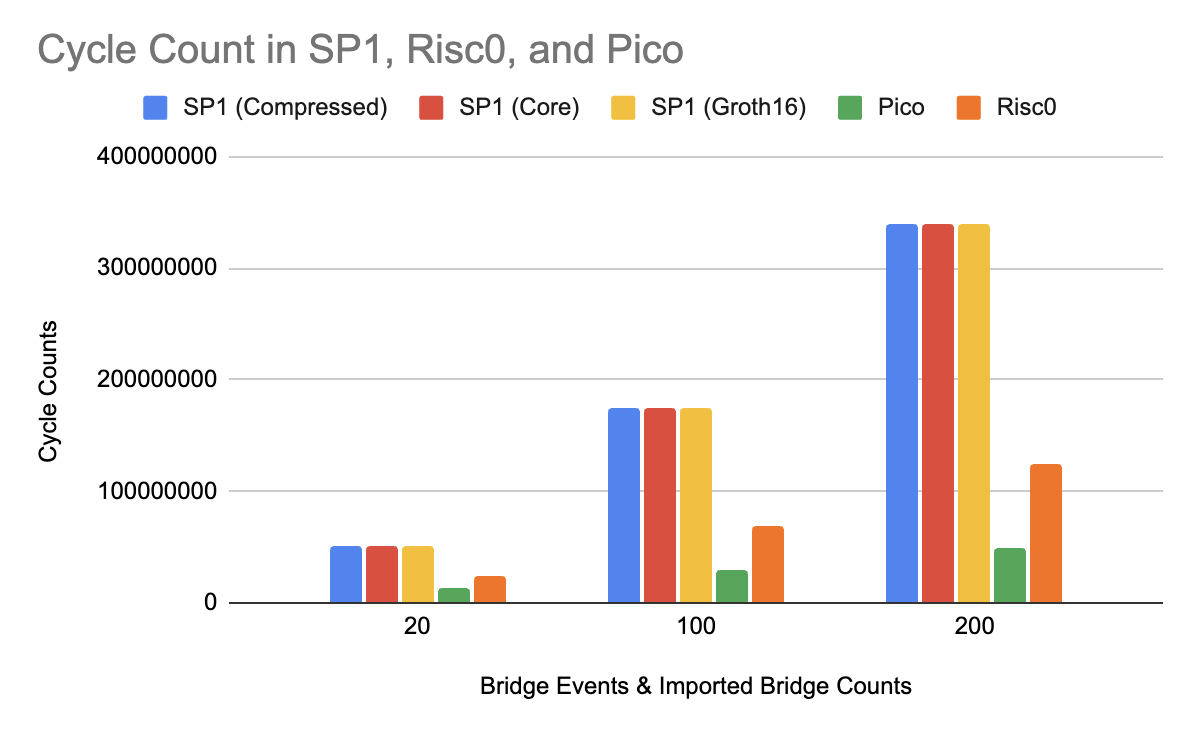
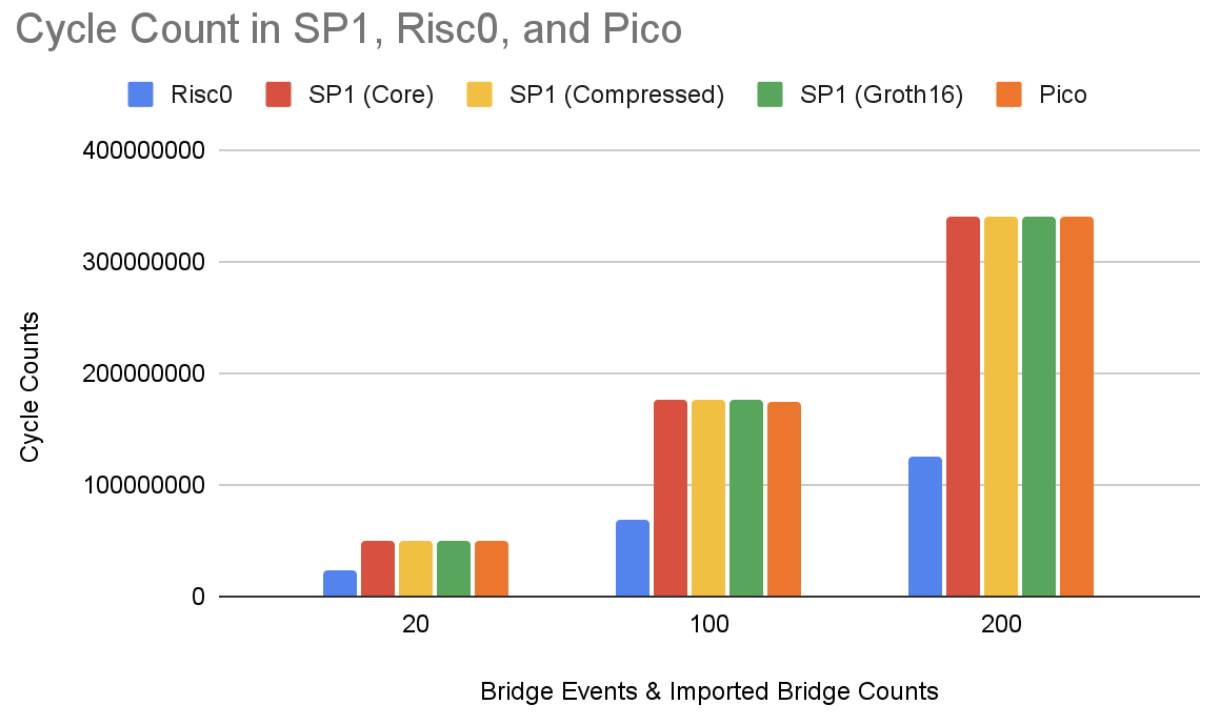
fix: updated the pico benchmark to the correct number

diff --git a/pessimistic-proof-bench/crates/pp-sp1/pp-sp1-host/src/bin/ppgen.rs b/pessimistic-proof-bench/crates/pp-sp1/pp-sp1-host/src/bin/ppgen.rs
@@ -1,16 +1,17 @@
 use std::{path::PathBuf, time::Instant};
 
-use agglayer_primitives::Address;
-use agglayer_types::{Certificate, U256};
 use clap::Parser;
-use pessimistic_proof::bridge_exit::{NetworkId, TokenInfo};
-use pessimistic_proof::PessimisticProofOutput;
-use pessimistic_proof_test_suite::sample_data::{self as data};
 use pp_sp1_host::runner::Runner;
 use serde::{Deserialize, Serialize};
 use sp1_sdk::HashableKey;
 use tracing::{info, warn};
 use uuid::Uuid;
+
+use agglayer_types::{Certificate, U256};
+use pessimistic_proof::bridge_exit::{NetworkId, TokenInfo};
+use pessimistic_proof::PessimisticProofOutput;
+use pessimistic_proof_core::{generate_pessimistic_proof, NetworkState};
+use pessimistic_proof_test_suite::sample_data::{self as data};
 
 /// The arguments for the pp generator.
 #[derive(Parser, Debug)]
@@ -56,8 +57,8 @@ pub fn main() {
     let args = PPGenArgs::parse();
 
     let mut state = data::sample_state_00();
-
     let old_state = state.state_b.clone();
+    let old_network_state = NetworkState::from(old_state.clone());
 
     let bridge_exits = get_events(args.n_exits, args.sample_path.clone());
     let imported_bridge_exits = get_events(args.n_imported_exits, args.sample_path);
@@ -76,10 +77,10 @@ pub fn main() {
         .unwrap();
 
     // Validate inputs by running generate_pessimistic_proof first
-    let mut proof_output: PessimisticProofOutput = None;
+    // let mut proof_output: PessimisticProofOutput = None;
     match generate_pessimistic_proof(old_network_state.clone(), &multi_batch_header) {
         Ok(output) => {
-            proof_output = output;
+            // proof_output = output;
             info!("Input validation successful, proceeding with proof generation");
         }
         Err(e) => {
@@ -136,50 +137,50 @@ pub fn main() {
     // }
 }
 
-#[derive(Debug, Clone, Serialize, Deserialize)]
-#[serde(rename_all = "kebab-case")]
-pub struct VerifierInputs {
-    /// The previous local exit root.
-    pub prev_local_exit_root: String,
-    /// The previous pessimistic root.
-    pub prev_pessimistic_root: String,
-    /// The l1 info root against which we prove the inclusion of the
-    /// imported bridge exits.
-    pub l1_info_root: String,
-    /// The origin network of the pessimistic proof.
-    pub origin_network: NetworkId,
-    /// The consensus hash.
-    pub consensus_hash: String,
-    /// The new local exit root.
-    pub new_local_exit_root: String,
-    /// The new pessimistic root which commits to the balance and nullifier
-    /// tree.
-    pub new_pessimistic_root: String,
-}
+// #[derive(Debug, Clone, Serialize, Deserialize)]
+// #[serde(rename_all = "kebab-case")]
+// pub struct VerifierInputs {
+//     /// The previous local exit root.
+//     pub prev_local_exit_root: String,
+//     /// The previous pessimistic root.
+//     pub prev_pessimistic_root: String,
+//     /// The l1 info root against which we prove the inclusion of the
+//     /// imported bridge exits.
+//     pub l1_info_root: String,
+//     /// The origin network of the pessimistic proof.
+//     pub origin_network: NetworkId,
+//     /// The consensus hash.
+//     pub consensus_hash: String,
+//     /// The new local exit root.
+//     pub new_local_exit_root: String,
+//     /// The new pessimistic root which commits to the balance and nullifier
+//     /// tree.
+//     pub new_pessimistic_root: String,
+// }
 
-impl From<PessimisticProofOutput> for VerifierInputs {
-    fn from(v: PessimisticProofOutput) -> Self {
-        Self {
-            prev_local_exit_root: format!("0x{}", hex::encode(v.prev_local_exit_root)),
-            prev_pessimistic_root: format!("0x{}", hex::encode(v.prev_pessimistic_root)),
-            l1_info_root: format!("0x{}", hex::encode(v.l1_info_root)),
-            origin_network: v.origin_network.into(),
-            consensus_hash: format!("0x{}", hex::encode(v.consensus_hash)),
-            new_local_exit_root: format!("0x{}", hex::encode(v.new_local_exit_root)),
-            new_pessimistic_root: format!("0x{}", hex::encode(v.new_pessimistic_root)),
-        }
-    }
-}
+// impl From<PessimisticProofOutput> for VerifierInputs {
+//     fn from(v: PessimisticProofOutput) -> Self {
+//         Self {
+//             prev_local_exit_root: format!("0x{}", hex::encode(v.prev_local_exit_root)),
+//             prev_pessimistic_root: format!("0x{}", hex::encode(v.prev_pessimistic_root)),
+//             l1_info_root: format!("0x{}", hex::encode(v.l1_info_root)),
+//             origin_network: v.origin_network.into(),
+//             consensus_hash: format!("0x{}", hex::encode(v.consensus_hash)),
+//             new_local_exit_root: format!("0x{}", hex::encode(v.new_local_exit_root)),
+//             new_pessimistic_root: format!("0x{}", hex::encode(v.new_pessimistic_root)),
+//         }
+//     }
+// }
 
-/// A fixture that can be used to test the verification of SP1 zkVM proofs
-/// inside Solidity.
-#[derive(Debug, Clone, Serialize, Deserialize)]
-#[serde(rename_all = "kebab-case")]
-struct PessimisticProofFixture {
-    certificate: Certificate,
-    pp_inputs: VerifierInputs,
-    signer: Address,
-    vkey: String,
-    public_values: String,
-    proof: String,
-}
+// /// A fixture that can be used to test the verification of SP1 zkVM proofs
+// /// inside Solidity.
+// #[derive(Debug, Clone, Serialize, Deserialize)]
+// #[serde(rename_all = "kebab-case")]
+// struct PessimisticProofFixture {
+//     certificate: Certificate,
+//     pp_inputs: VerifierInputs,
+//     signer: Address,
+//     vkey: String,
+//     public_values: String,
+//     proof: String,
+// }

diff --git a/pessimistic-proof-bench/crates/pp-sp1/pp-sp1-host/src/runner.rs b/pessimistic-proof-bench/crates/pp-sp1/pp-sp1-host/src/runner.rs
@@ -83,7 +83,7 @@ impl Runner {
         let stdin = Self::prepare_stdin(state, batch_header);
         let (pk, vk) = self.client.setup(PESSIMISTIC_PROOF_ELF);
 
-        let proof = self.client.prove(&pk, &stdin).groth16().run()?;
+        let proof = self.client.prove(&pk, &stdin).run()?;
         let output = Self::extract_output(proof.public_values.clone());
 
         Ok((proof, vk, output))

diff --git a/README.md b/README.md
@@ -79,34 +79,22 @@ Here's a spec of their characteristics that we utilized in this benchmark:
 | Nexus (std❌)     | -                 | -                 | -                 |
 
 ### 10 Bridge Exits & 10 Imported Bridge Exits
-|               | SP1 (Compressed) | SP1 (Core) | SP1 (Groth16) | Pico      | RiscZero  | OpenVM | Valida |
-|---------------|------------------|------------|---------------|-----------|-----------|--------|--------|
-| Cycle Count   | 50288059         | 50283179   | 50283612      | 14079761  | 23592960  | -      | -      |
-| Time(Seconds) | 67.99            | 52.22      | 106.76        | 96.27     | 58.33     | -      | -      |
+|               | RiscZero  | SP1 (Core) | SP1 (Compressed) | SP1 (Groth16) | Pico      | OpenVM | Valida |
+|---------------|-----------|------------|------------------|---------------|-----------|--------|--------|
+| Cycle Count   | 23592960  | 50283179   | 50288059         | 50283612      | 50243342  | -      | -      |
+| Time(Seconds) | 58.33     | 52.22      | 67.99            | 106.76        | 300.46    | -      | -      |
 
 ### 50 Bridge Exits & 50 Imported Bridge Exits
-|               | SP1 (Compressed) | SP1 (Core) | SP1 (Groth16) | Pico      | RiscZero  | OpenVM | Valida |
-|---------------|------------------|------------|---------------|-----------|-----------|--------|--------|
-| Cycle Count   | 175315505        | 175304109  | 175309776     | 29198515  | 68681728  | -      | -      |
-| Time(Seconds) | 197.17           | 144.44     | 237.49        | 207.53    | 181.60    | -      | -      |
+|               | RiscZero  | SP1 (Core) | SP1 (Compressed) | SP1 (Groth16) | Pico      | OpenVM | Valida |
+|---------------|-----------|------------|------------------|---------------|-----------|--------|--------|
+| Cycle Count   | 68681728  | 175304109  | 175315505        | 175309776     | 175072496 | -      | -      |
+| Time(Seconds) | 181.60    | 144.44     | 197.17           | 237.49        | 1027.40   | -      | -      |
 
 ### 100 Bridge Exits & 100 Imported Bridge Exits
-|               | SP1 (Compressed) | SP1 (Core) | SP1 (Groth16) | Pico      | RiscZero  | OpenVM | Valida |
-|---------------|------------------|------------|---------------|-----------|-----------|--------|--------|
-| Cycle Count   | 339822648        | 339821606  | 339830706     | 49021147  | 124780544 | -      | -      |
-| Time(Seconds) | 367.30           | 265.31     | 404.43        | 350.58    | 337.91    | -      | -      |
-
-### 500 Bridge Exits & 500 Imported Bridge Exits
-|               | SP1 (Compressed) | SP1 (Core) | SP1 (Groth16) | Pico      | RiscZero  | OpenVM | Valida |
-|---------------|------------------|------------|---------------|-----------|-----------|--------|--------|
-| Cycle Count   | 339822648        | 339821606  | 339830706     | 49021147  | 124780544 | -      | -      |
-| Time(Seconds) | 367.30           | 265.31     | 404.43        | 350.58    | 337.91    | -      | -      |
-
-### 1000 Bridge Exits & 1000 Imported Bridge Exits
-|               | SP1 (Compressed) | SP1 (Core) | SP1 (Groth16) | Pico      | RiscZero  | OpenVM | Valida |
-|---------------|------------------|------------|---------------|-----------|-----------|--------|--------|
-| Cycle Count   | 339822648        | 339821606  | 339830706     | 49021147  | 124780544 | -      | -      |
-| Time(Seconds) | 367.30           | 265.31     | 1808.68       | 350.58    | 337.91    | -      | -      |
+|               | RiscZero  | SP1 (Core) | SP1 (Compressed) | SP1 (Groth16) | Pico      | OpenVM | Valida |
+|---------------|-----------|------------|------------------|---------------|-----------|--------|--------|
+| Cycle Count   | 124780544 | 339821606  | 339822648        | 339830706     | 339350809 | -      | -      |
+| Time(Seconds) | 337.91    | 265.31     | 367.30           | 404.43        | 1982.63   | -      | -      |
 
 ![Cycle Counts](./pics/Bench_CycleCount.png)
 ![Time](./pics/Bench_Time.png)
@@ -136,7 +124,7 @@ RUSTFLAGS="-C target-cpu=native" RUST_LOG=info cargo run --release --package pp-
 ### 2.Benchmark on Brevis Pico
 
 Version used:
-- Pico zkVM: 1.0.0
+- Pico zkVM: 1.0.1
 
 > If you haven't installed Pico commandline tool, you can do so via following this [guide](https://docs.brevis.network/getting-started/installation).
 
